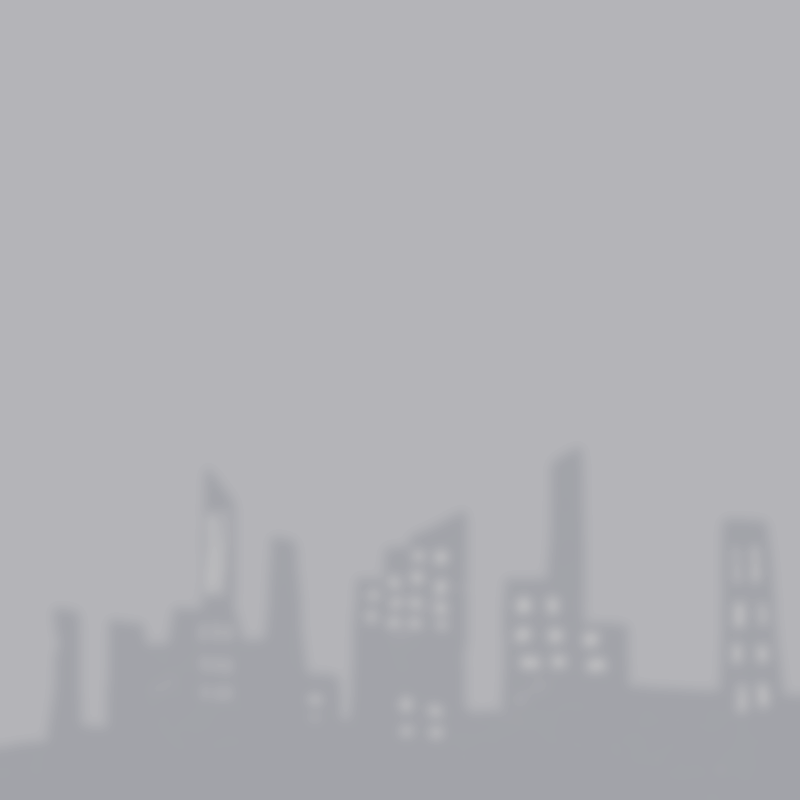
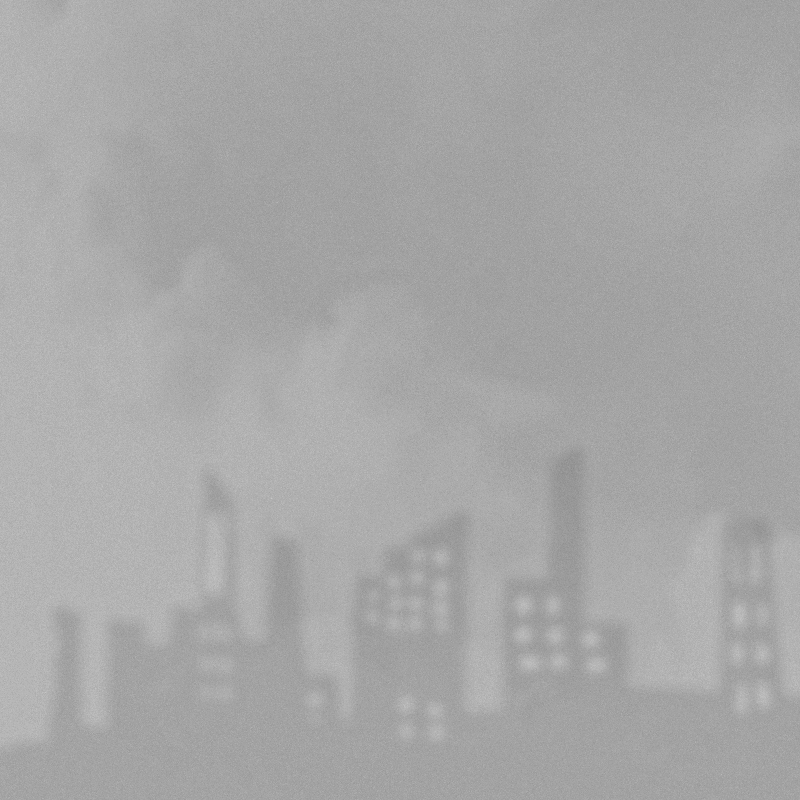
master

Changed region(s): [[0.1562, 0.0, 1.0, 0.6562], [0.625, 0.5312, 0.75, 0.5938], [0.9688, 0.2188, 1.0, 0.25]]

diff --git a/BreakTimeServer/src/main/resources/js/main.js b/BreakTimeServer/src/main/resources/js/main.js
@@ -22,10 +22,14 @@ var otherCtx;
 var backCanvas;
 var backCtx;
 
+var filterCanvas;
+var filterCtx;
+
 var barrageImg;
 var selfImg;
 var otherImg;
 var backImg;
+var filterImg;
 
 var nowStart;
 var currStart;
@@ -46,7 +50,7 @@ function initializeStatsDom() {
 	stats = new Stats();
 	stats.showPanel(0); // 0: fps, 1: ms, 2: mb, 3+: custom
 	
-	document.body.appendChild(stats.dom);
+	document.getElementById('stageWrapper').appendChild(stats.dom);
 }
 
 function initializeVariables() {
@@ -110,7 +114,19 @@ function initializeVariables() {
 		backCanvas.height = 800;
 
 		backCtx.drawImage(backImg, 0, 0);
-		
+	};
+
+	filterImg = new Image();
+	filterImg .src = './img/filter.png';
+	filterImg .onload = function() {
+		filterCanvas = document.createElement('canvas');
+		filterCtx = filterCanvas.getContext('2d');
+
+		filterCanvas.width = 800;
+		filterCanvas.height = 800;
+
+		filterCtx.drawImage(filterImg, 0, 0);
+
 		currStart = performance.now();
 		window.requestAnimationFrame(render);
 	};
@@ -127,6 +143,10 @@ async function render() {
 	
 	objectMap.forEach(value => value.draw());
 	
+	if (document.querySelector('input[name="filter"]:checked').value == 'true') {
+		ctx.drawImage(filterCanvas, 0, 0);
+	}
+
 	nowStart = performance.now();
 
 	def = nowStart - currStart;
@@ -166,6 +186,8 @@ function handleMessage(e) {
 	
 	//ctx.clearRect(0, 0, canvas.width, canvas.height);
 	//ctx.drawImage(backCanvas, 0, 0);
+
+	objectMap.clear();
 
 	var dataList = e.data.split(':');
 	dataList
@@ -256,7 +278,6 @@ function initializeControlEvent() {
 			webSocket.send('LON');
 		}
 		else if (e.code == 'Space') {
-			objectMap.clear();
 			notice.innerText = '';
 			initializeWebSocket();
 		}

diff --git a/BreakTimeServer/src/main/resources/main.html b/BreakTimeServer/src/main/resources/main.html
@@ -9,6 +9,7 @@
 <script type="text/javascript" src="./js/stats.js"></script>
 </head>
 <body>
+	<div class="main">
 	<div class="read">
 		<p>조작법</p>
 		<ul>
@@ -16,14 +17,18 @@
 			<li>Space를 누르면 게임에 재접속합니다.</li>
 			<li>Enter를 누르면 게임을 시작합니다.</li>
 		</ul>
+		<br>
+		<br>
 		<p>웹소켓 접속주소</p>
-		<input type="text" id="ip" style="width: 300px;" disabled="disabled">
+		<input type="text" id="ip" disabled="disabled">
 		<select id="ipSelect">
 			<option value="localhost:45000" selected>localhost</option>
 			<option value="10.10.20.116:45000">Server-Jookwang</option>
 			<option value="jase.iptime.org:45000">Server-home</option>
 			<option value="">직접입력</option>
 		</select>
+		<br>
+		<br>
 		<p>프레임 설정</p>
 		<select id="frameSelect">
 			<option value="7" selected>144fps</option>
@@ -32,10 +37,16 @@
 			<option value="16">60fps</option>
 			<option value="32">30fps</option>
 		</select>
+		<br>
+		<br>
+		<p>필터 설정</p>
+		<input type="radio" name="filter" id="radio1" value="true" checked><label for="radio1">활성화</label> 
+		<input type="radio" name="filter" id="radio2" value="false"><label for="radio2">비활성화</label>
 	</div>
-	<div class="stage">
+	<div class="stageWrapper" id="stageWrapper">
 		<div class="notice" id="notice"></div>
 		<canvas id="stage" width="800" height="800"></canvas>
+	</div>
 	</div>
 </body>
 </html>

diff --git a/BreakTimeServer/src/main/resources/css/main.css b/BreakTimeServer/src/main/resources/css/main.css
@@ -1,4 +1,13 @@
-.stage {
+body, p {
+	margin: 0px;
+	padding: 0px;
+}
+
+.main {
+	padding: 20px;
+}
+
+.stageWrapper {
 	position: relative;
 	
 	width: 800px;
@@ -18,7 +27,7 @@
 	height: 200px;
 	
 	top: 300px;
-	
+
 	text-align: center;
 	
 	line-height: 200px;
@@ -29,6 +38,16 @@
 
 .read {
 	position: absolute;
-	
-	top: 100px;
+}
+
+#ip {
+	width: 300px;
+}
+
+#ipSelect {
+	width: 150px;
+}
+
+#frameSelect {
+	width: 300px;
 }

diff --git a/BreakTimeServer/src/main/resources/js/stats.js b/BreakTimeServer/src/main/resources/js/stats.js
@@ -7,7 +7,7 @@ var Stats = function () {
 	var mode = 0;
 
 	var container = document.createElement( 'div' );
-	container.style.cssText = 'position:fixed;top:0;left:0;cursor:pointer;opacity:0.9;z-index:10000';
+	container.style.cssText = 'position: absolute; top: 0; left: 0; cursor: pointer; opacity: 0.3; z-index: 10000';
 	container.addEventListener( 'click', function ( event ) {
 
 		event.preventDefault();

diff --git a/BreakTimeServer/src/main/resources/js/object.js b/BreakTimeServer/src/main/resources/js/object.js
@@ -23,7 +23,7 @@ class Character {
 	}
 	
 	draw = function() {
-		if (this.id = characterId) {
+		if (this.id == characterId) {
 			ctx.drawImage(selfCanvas, Number(this.x) - 30, Number(this.y) - 30);
 	
 		} else {
